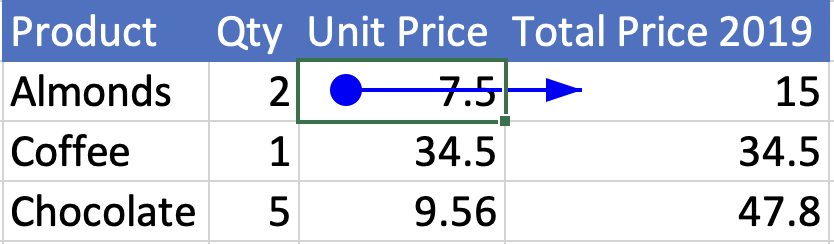
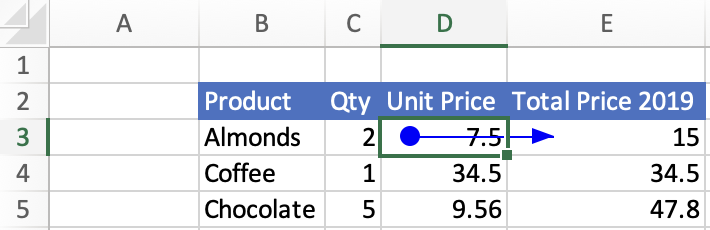
Update screenshots, clarify description

diff --git a/docs/excel/excel-add-ins-ranges-precedents-dependents.md b/docs/excel/excel-add-ins-ranges-precedents-dependents.md
@@ -18,7 +18,7 @@ This article provides code samples that retrieve direct precedents and direct de
 
 Locate a formula's direct precedent cells with [Range.getDirectPrecedents](/javascript/api/excel/excel.range#getdirectprecedents--). `Range.getDirectPrecedents` returns a `WorkbookRangeAreas` object. This object contains the addresses of all the direct precedents in the workbook. It has a separate `RangeAreas` object for each worksheet containing at least one formula precedent. For more information on working with the `RangeAreas` object, see [Work with multiple ranges simultaneously in Excel add-ins](excel-add-ins-multiple-ranges.md).
 
-The following screenshot shows the result of selecting the **Trace Precedents** button in the Excel UI. This button draws an arrow from precedent cells to the selected cell. Unlike the Excel UI button, the `getDirectPrecedents` method does not draw arrows.
+The following screenshot shows the result of selecting the **Trace Precedents** button in the Excel UI. This button draws an arrow from precedent cells to the selected cell. The selected cell, **E3**, has both **D3** and **C3** as precedent cells. Unlike the Excel UI button, the `getDirectPrecedents` method does not draw arrows.
 
 ![Arrow tracing precedent cells in the Excel UI](../images/excel-ranges-trace-precedents.png)
 
@@ -57,7 +57,7 @@ Excel.run(function (context) {
 
 Locate a formula's direct dependent cells with [Range.getDirectDependents](/javascript/api/excel/excel.range#getDirectDependents__). Like `Range.getDirectPrecedents`, `Range.getDirectDependents` also returns a `WorkbookRangeAreas` object. This object contains the addresses of all the direct dependents in the workbook. It has a separate `RangeAreas` object for each worksheet containing at least one formula dependent. For more information on working with the `RangeAreas` object, see [Work with multiple ranges simultaneously in Excel add-ins](excel-add-ins-multiple-ranges.md).
 
-The following screenshot shows the result of selecting the **Trace Dependents** button in the Excel UI. This button draws an arrow from dependent cells to the selected cell. Unlike the Excel UI button, the `getDirectDependents` method does not draw arrows.
+The following screenshot shows the result of selecting the **Trace Dependents** button in the Excel UI. This button draws an arrow from dependent cells to the selected cell. The selected cell, **D3**, has cell **E3** as a dependent. Unlike the Excel UI button, the `getDirectDependents` method does not draw arrows.
 
 ![Arrow tracing dependent cells in the Excel UI](../images/excel-ranges-trace-dependents.png)
 
